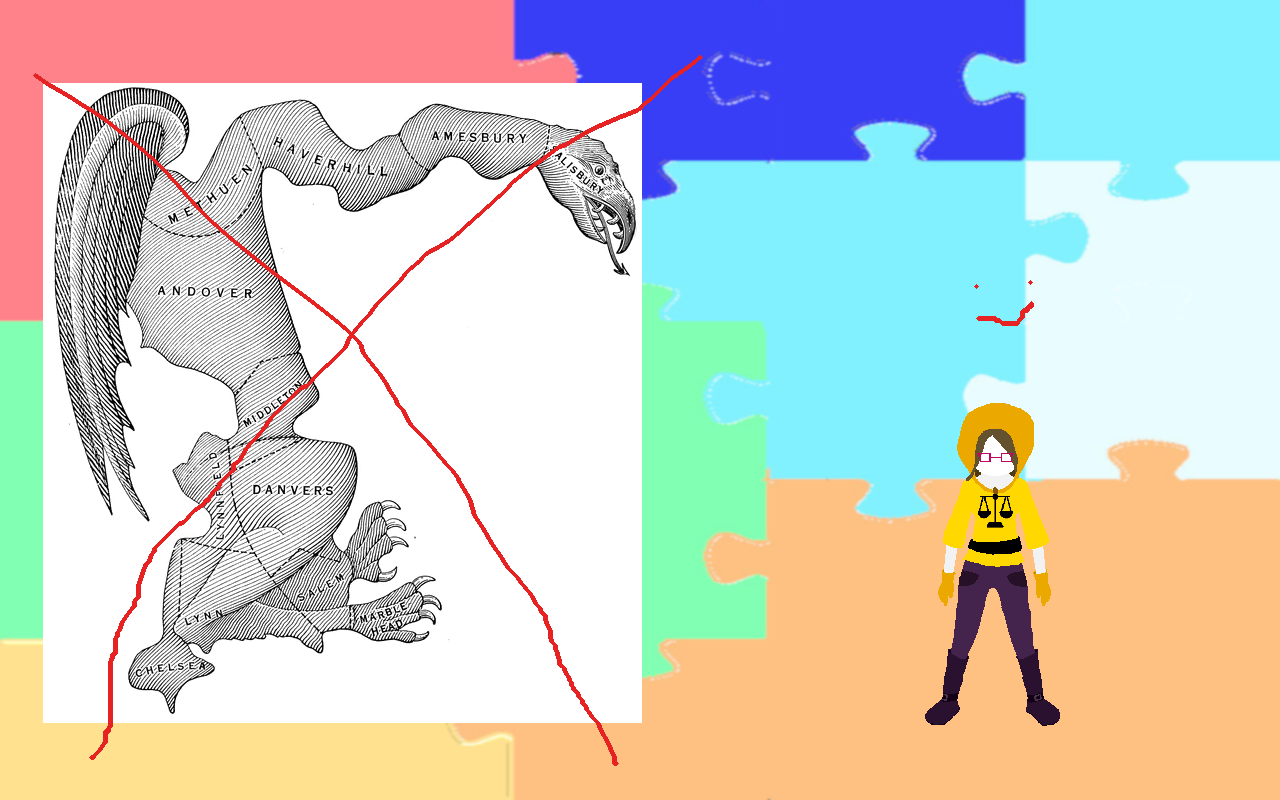
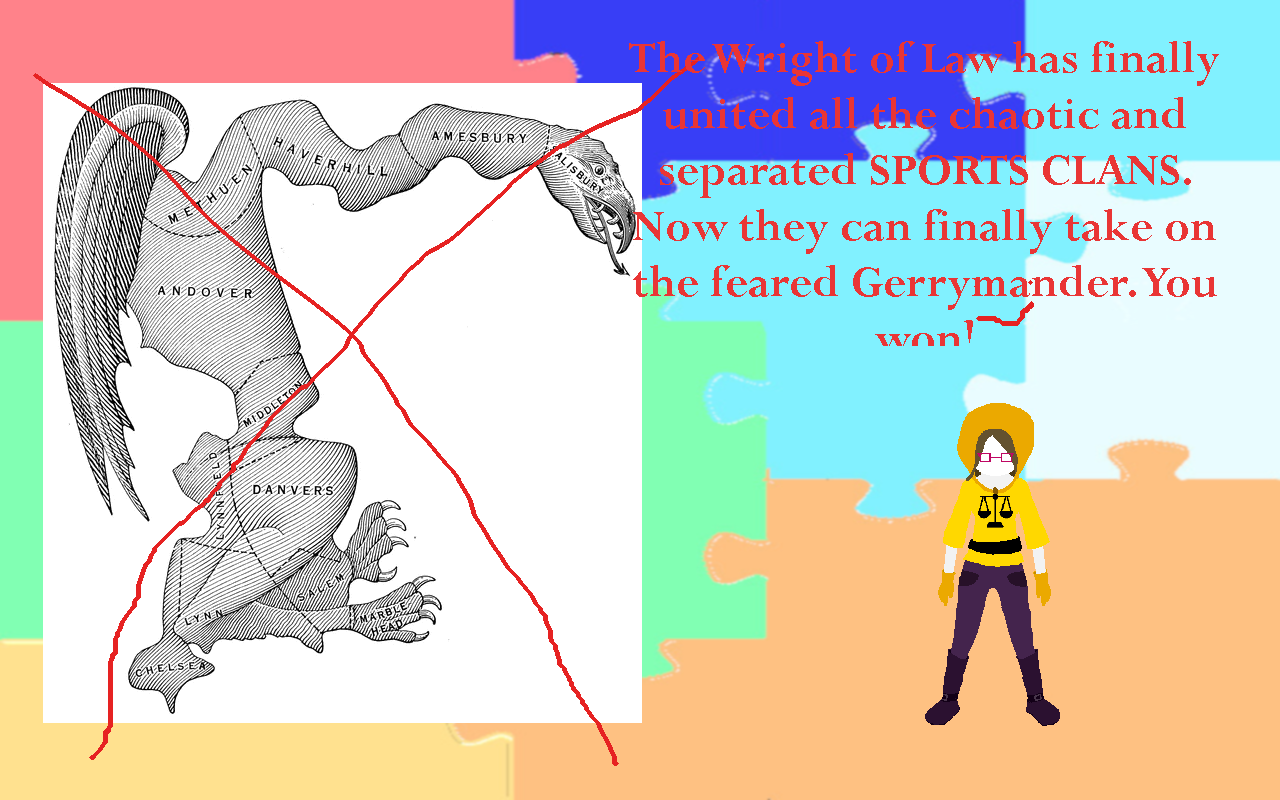
win screen exists

diff --git a/web/scripts/Game.dart b/web/scripts/Game.dart
@@ -4,7 +4,7 @@ import 'dart:html';
 import 'package:CommonLib/Colours.dart';
 import 'package:LoaderLib/Loader.dart';
 import 'package:RenderingLib/RendereringLib.dart';
-
+import 'package:http/http.dart' as http;
 import 'AlchemyResult.dart';
 import 'Level.dart';
 import 'Rule.dart';
@@ -54,13 +54,31 @@ class Game {
 
     Future<void> startLevel(Element element) async {
         element.text = "";
-        if(beatenLevels.length == Level.levels.length) {
-            window.alert("You did it!!!");
+        if(beatenLevels.isEmpty) {
+            window.alert("JR SAYS REMOVE THESES");
+            beatenLevels = new List.from(Level.levels);
         }
-        parent = element;
-        container = new DivElement()..classes.add("game");
-        element.append(container);
-        await levelSelect();
+        if(beatenLevels.length == Level.levels.length) {
+            displayWinGraphic();
+        }else {
+            parent = element;
+            container = new DivElement()
+                ..classes.add("game");
+            element.append(container);
+            await levelSelect();
+        }
+    }
+
+    void displayWinGraphic() {
+        final ImageElement win = new ImageElement(src: "images/awinnerisyou.png")..classes.add('win')..classes.add("game");
+        parent.append(win);
+        gigglesnort();
+    }
+
+    void gigglesnort() async {
+        print("Nothing to see here:");
+        http.Response data = await http.get("Data/chat_daydreamnumbernineteen.paldemic");
+        print(data.body);
     }
 
     static Future<void> reset() async {

diff --git a/web/index.html b/web/index.html
@@ -20,11 +20,11 @@
 
 TODO:
 <li>new level select, have two images on screen, layered, one for detail, one for solid colors, click detection and recoloring (PL is genius)</li>
-<li>* on map screen, if ALL levels are cleared, displaying winning graphic and text, console print paldemic</li>
-<li>out of scene button to toggle debug colors for rules, otherwise law purple</li>
 <li>sound effects (button press, dragging, click owl say "who") and music</li>
 <li> final bg, win graphics</li>
+<li>out of scene button to toggle debug colors for rules, otherwise law purple</li>
 <li>color ground to match district</li>
+<li>horse has too many traits</li>
 <li>leave main</li>
 </body>
 </html>

diff --git a/web/styles.css b/web/styles.css
@@ -12,6 +12,8 @@ html, body {
   color: white;
 }
 
+
+
 #output {
   padding: 20px;
 }
@@ -196,6 +198,8 @@ position: absolute;
     color: #cc87e8;
 }
 
+
+
 .rule{
     width: 160px;
     padding: 5px;
@@ -357,4 +361,10 @@ button:hover{
 
 button:active{
     transform: translateY(5px);
+}
+
+.win{
+    position: absolute;
+    left: 0px;
+    right: 0px;
 }
